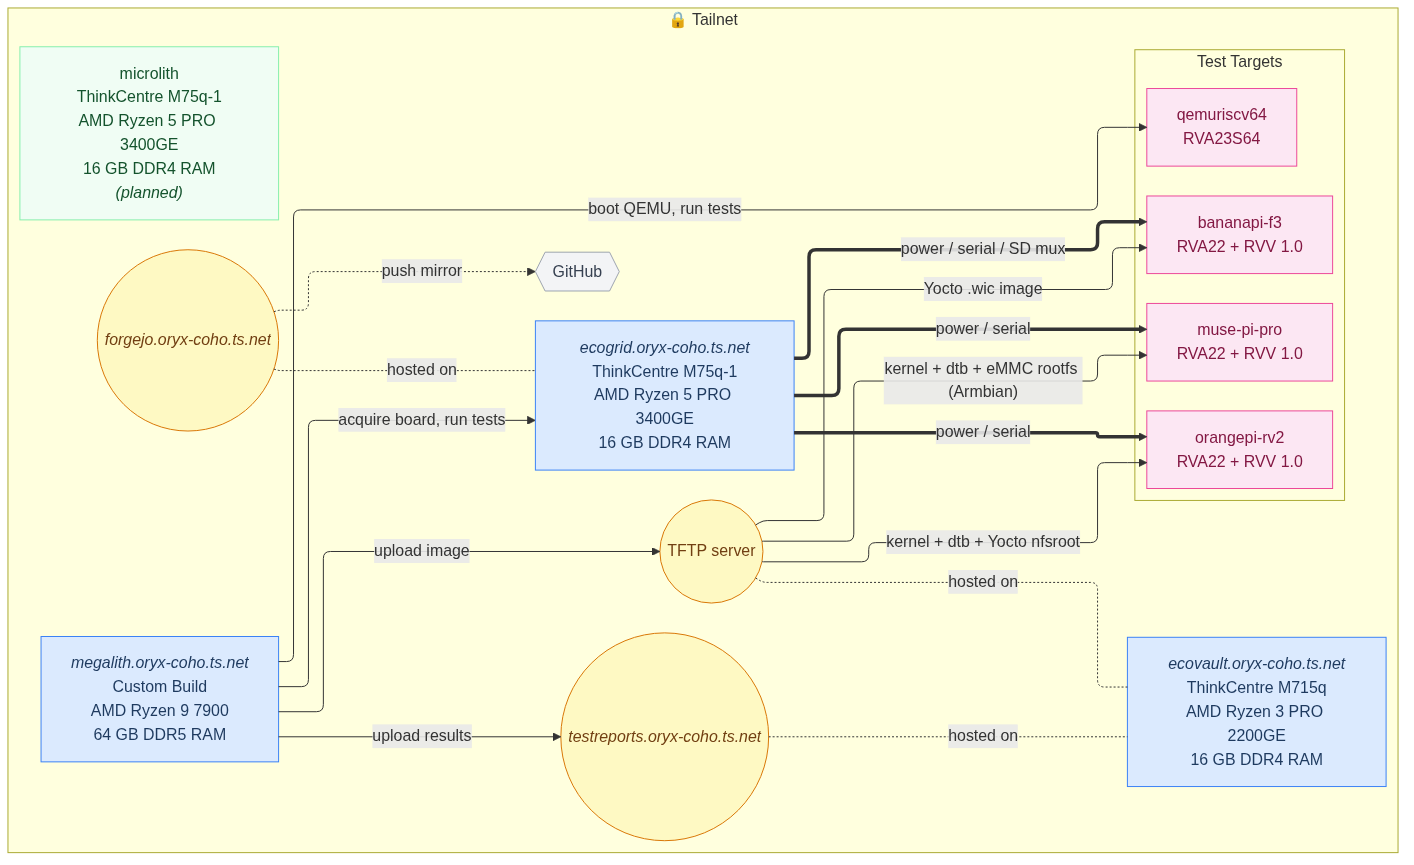
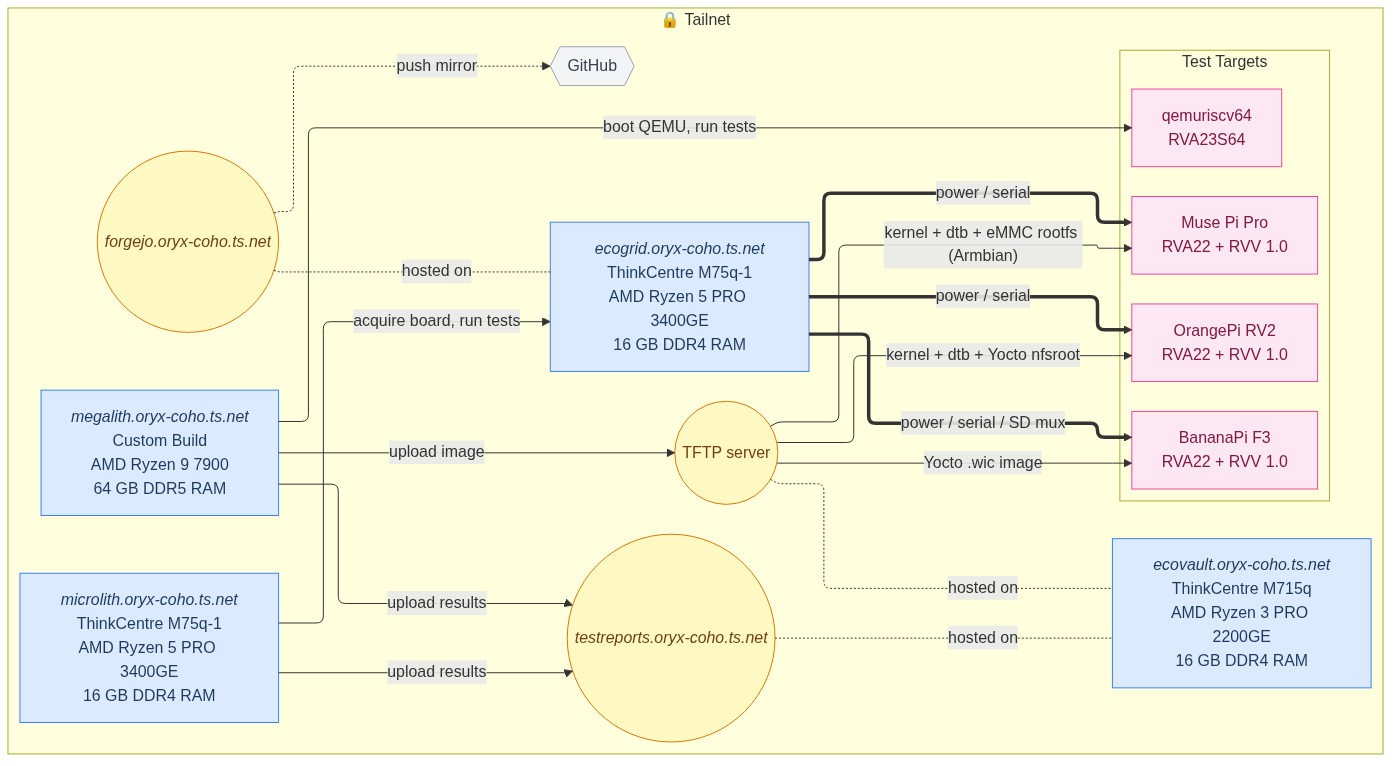
network.yaml, network.png: update
- Make board labels match names from product pages
- Fix "planned" label for microlith

diff --git a/docs/bom.md b/docs/bom.md
@@ -35,12 +35,12 @@
 
 | ID | Label | Vendor | Model | Arch | Connection |
 |----|-------|--------|-------|------|------------|
-| `board_1` | bananapi-f3 | BananaPi | [BPI-F3](https://wiki.banana-pi.org/Banana_Pi_BPI-F3) | riscv64 (RVA22 + RVV 1.0) | serial + power + sd mux |
-| `board_2` | muse-pi-pro | SpacemiT | [Muse Pi Pro](https://www.spacemit.com/muse-pi-pro/) | riscv64 (RVA22 + RVV 1.0) | serial + power |
-| `board_3` | orangepi-rv2 | OrangePi | [OrangePi RV2](http://www.orangepi.org/html/hardWare/computerAndMicrocontrollers/details/Orange-Pi-RV2.html) | riscv64 (RVA22 + RVV 1.0) | serial + power |
+| `board_1` | BananaPi F3 | BananaPi | [BPI-F3](https://wiki.banana-pi.org/Banana_Pi_BPI-F3) | riscv64 (RVA22 + RVV 1.0) | serial + power + sd mux |
+| `board_2` | Muse Pi Pro | SpacemiT | [Muse Pi Pro](https://www.spacemit.com/muse-pi-pro/) | riscv64 (RVA22 + RVV 1.0) | serial + power |
+| `board_3` | OrangePi RV2 | OrangePi | [OrangePi RV2](http://www.orangepi.org/html/hardWare/computerAndMicrocontrollers/details/Orange-Pi-RV2.html) | riscv64 (RVA22 + RVV 1.0) | serial + power |
 | `board_4` | qemuriscv64 | QEMU | RVA23S64 | riscv64 (RVA23S64) | virtual |
 
-### bananapi-f3
+### BananaPi F3
 
 | Interface | Part | Part Number | Role |
 |-----------|------|-------------|------|
@@ -48,14 +48,14 @@
 | serial | [Raspberry Pi Debug Probe](https://www.raspberrypi.com/products/debug-probe/) | Debug_Probe__CMSIS-DAP_0101 | USB-to-UART bridge |
 | SD mux | [USB SD Mux](https://linux-automation.com/en/products/usb-sd-mux.html) | usb-sd-mux_rev4.0 | USB SD Mux controller |
 
-### muse-pi-pro
+### Muse Pi Pro
 
 | Interface | Part | Part Number | Role |
 |-----------|------|-------------|------|
 | power | [BayLibre CoPilot](https://baylibre.com/copilot/) | BayLibre_Copilot_Lite_V1.2 | Power control |
 | serial | [Raspberry Pi Debug Probe](https://www.raspberrypi.com/products/debug-probe/) | Debug_Probe__CMSIS-DAP_0101 | USB-to-UART bridge |
 
-### orangepi-rv2
+### OrangePi RV2
 
 | Interface | Part | Part Number | Role |
 |-----------|------|-------------|------|
